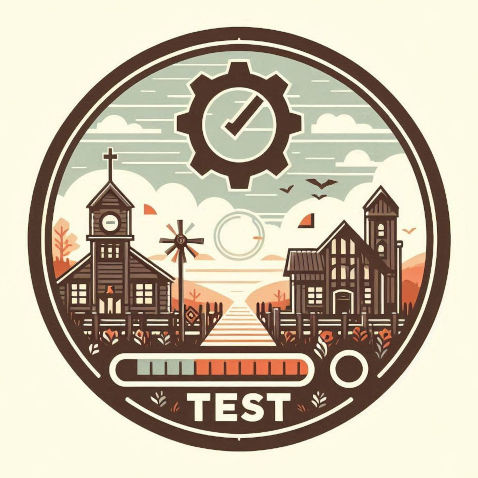
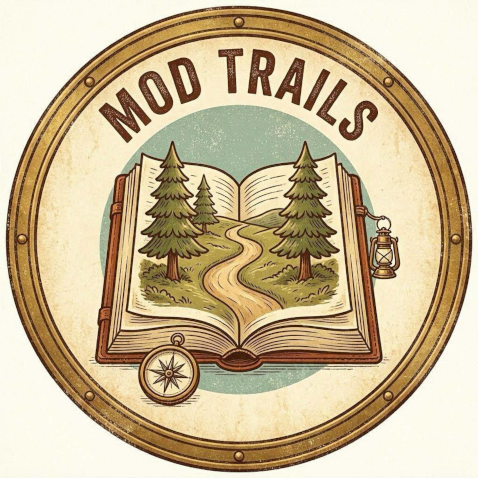
Add AGENTS.md. Small refactor of command architecture.

diff --git a/MaderLand/Commands/TrailsCommands.cs b/MaderLand/Commands/TrailsCommands.cs
@@ -16,25 +16,30 @@ public static class TrailsCommands
     /// </summary>
     /// <param name="api">Core API.</param>
     /// <param name="player">Player that issued command.</param>
+    /// <param name="action">Action (feature-specific) to use.</param>
     /// <param name="parameters">All other parameters.</param>
-    public static TextCommandResult Handle(ICoreServerAPI api, IServerPlayer player, string? parameters)
+    public static TextCommandResult Handle(ICoreServerAPI api, IServerPlayer player, string action, string? parameters)
     {
-        if (parameters == null) return TextCommandResult.Error($"Command 'trail': missing parameters!");
-        if (parameters.StartsWith("active")) return Active(api, player, parameters.Replace("active", "").Trim());
-        if (parameters.StartsWith("check")) return CheckBlock(player);
-        return TextCommandResult.Success();
+        switch (action)
+        {
+            case "active": return Active(api, player, parameters);
+            case "check": return CheckBlock(player);
+            default:
+                return TextCommandResult.Error($"Unknown action '{action}' for feature 'trails'!");
+        }
     }
 
     /// <summary>
-    /// Activates or deactivates Trails feature.
+    /// Action: Activates or deactivates Trails feature.
     /// </summary>
     /// <param name="api">Core API.</param>
     /// <param name="player"></param>
     /// <param name="parameters">All other parameters.</param>
     /// <returns>Result of command.</returns>
-    private static TextCommandResult Active(ICoreServerAPI api, IServerPlayer player, string parameters)
+    private static TextCommandResult Active(ICoreServerAPI api, IServerPlayer player, string? parameters)
     {
-        if (parameters.Equals("")) {
+        if (parameters == null || parameters.Equals(""))
+        {
             // Just flip.
             ConfigService.TrailsConfig.Active = !ConfigService.TrailsConfig.Active;
         } else if (parameters.Equals("on")) {
@@ -53,7 +58,7 @@ public static class TrailsCommands
             }
             ConfigService.TrailsConfig.Active = false;
         }
-        else return TextCommandResult.Error($"Command 'trail active': unknown parameter!");
+        else return TextCommandResult.Error($"Command '/ml trails active': unknown parameter '{parameters}'!");
 
         TrailsConfigHandler.Save(api);
         string message = "Trails feature is turned " + (ConfigService.TrailsConfig.Active ? "on" : "off") + ".";
@@ -62,7 +67,7 @@ public static class TrailsCommands
     }
 
     /// <summary>
-    /// Check code of block player is standing on.
+    /// Action: Check code of block player is standing on.
     /// </summary>
     /// <param name="player">Player that input this command.</param>
     /// <returns>Result of command.</returns>
@@ -74,5 +79,4 @@ public static class TrailsCommands
         player.SendMessage(GlobalConstants.GeneralChatGroup, message, EnumChatType.CommandSuccess);
         return TextCommandResult.Success();
     }
-
 }

diff --git a/MaderLand/Commands/MaderLandCommand.cs b/MaderLand/Commands/MaderLandCommand.cs
@@ -9,7 +9,7 @@ namespace MaderLand.Commands;
 public static class MaderLandCommand
 {
     /// <summary>
-    /// Registers the /ml command. All commands have form of /ml [feature] [all other parameters]
+    /// Registers the /ml command. All commands have form of /ml [feature] [action] [all other parameters, optional]
     /// </summary>
     /// <param name="api">The server API used to register chat commands.</param>
     public static void Register(ICoreServerAPI api)
@@ -20,6 +20,7 @@ public static class MaderLandCommand
             .RequiresPlayer()
             .RequiresPrivilege(Privilege.chat)
             .WithArgs(api.ChatCommands.Parsers.Word("feature"),
+                      api.ChatCommands.Parsers.Word("action"),
                       api.ChatCommands.Parsers.OptionalAll("parameters"))
             .HandleWith(args =>
             {
@@ -27,9 +28,10 @@ public static class MaderLandCommand
                 if (player == null) return TextCommandResult.Error("This command can only be used by a player.");
 
                 string feature = (string)args[0];
-                string? parameters = args[1] as string; // is null if skipped
+                string action = (string)args[1];
+                string? parameters = args[2] as string; // is null if skipped
 
-                return Call(api, player, feature, parameters);
+                return Call(api, player, feature, action, parameters);
             });
     }
 
@@ -39,13 +41,14 @@ public static class MaderLandCommand
     /// <param name="api">Core API.</param>
     /// <param name="player">Player that issued command.</param>
     /// <param name="feature">Feature to use.</param>
+    /// <param name="action">Action (feature-specific) to use.</param>
     /// <param name="parameters">All other parameters.</param>
     /// <returns>Result of command.</returns>
-    private static TextCommandResult Call(ICoreServerAPI api, IServerPlayer player, string feature, string? parameters)
+    private static TextCommandResult Call(ICoreServerAPI api, IServerPlayer player, string feature, string action, string? parameters)
     {
         switch (feature)
         {
-            case "trails": return TrailsCommands.Handle(api, player, parameters);
+            case "trails": return TrailsCommands.Handle(api, player, action, parameters);
             default:
                 return TextCommandResult.Error($"Unknown feature '{feature}'!");
         }

diff --git a/MaderLand/Config/Trails/TrailsConfig.cs b/MaderLand/Config/Trails/TrailsConfig.cs
@@ -13,7 +13,7 @@ public class TrailsConfig
     public bool Active { get; set; } = true;
 
     /// <summary>
-    /// Trampling.
+    /// Trampling data.
     /// </summary>
     public TrailsTrample Trample { get; set; } = new TrailsTrample();
 

diff --git a/AGENTS.md b/AGENTS.md
@@ -1,0 +1,55 @@
+# AGENTS.md — MaderLand Mod by Mader Levap
+
+AI agent context file for the MaderLand Vintage Story mod project.
+
+## Project Overview
+
+**MaderLand** is a "kitchen sink" code mod for Vintage Story (C#, .NET 10). The mod adds various quality-of-life and gameplay features.
+
+GitHub: https://github.com/mader-levap/vs-mod-maderland
+
+## Tech Stack
+
+- Language: C# (.NET 10)
+- Game: Vintage Story 1.22+
+- Build: Cake (via `CakeBuild/` directory)
+
+## Vintage Story
+
+You can check API for mods:
+- API docs: https://apidocs.vintagestory.at/
+- Source code: https://github.com/anegostudios/vsapi
+Use these resources if you are not sure about particulars of API.
+
+## Project Structure
+
+```
+MaderLand/
+├─ Commands/                    # Contains command /ml (short for maderland) and its subcommands for every feature
+├─ Config/                      # Utilities and config definitions for every feature
+├─ MaderLandModSystem.cs        # Main ModSystem entry point
+├─ assets/
+│   └─ maderland/               # JSON assets, lang files
+└─ modinfo.json
+```
+
+## Conventions
+- Namespace root: `MaderLand`
+- XML doc comments (`///`) on all public classes and methods.
+
+### Commands
+- There is main command `/ml` (short for `maderland`). Format: `/ml [feature] [action] [all other parameters, optional]`
+- Each feature has subcommand, for example Trails feature has `/ml trails`.
+- Each feature has one or more actions. Example: `/ml trails check`.
+- All features have at least one action `active` that is used to turn feature on or off. Example: `/ml trails active off`.
+
+### Configuration
+- Code loads/saves/creates configuration via generic `ModConfigHandler` class.
+- `ConfigService` class contains all configurations and handle them.
+- Game-wise, configuration exists in `%AppData%/VintagestoryData/ModConfig/maderland` directory.
+- Mod has main config file `maderland.json`.
+- Every feature has its own json file. One config class per feature.
+
+## Do Not
+
+- Do not hardcode block codes or gameplay values — put them in config.

diff --git a/README.md b/README.md
@@ -1,6 +1,6 @@
 # MaderLand
 
-A Vintage Story personal mod adding various features and tweaks to base game that I like. All features can be activated on individual basis.
+A Vintage Story personal mod that adds various features and tweaks to base game that I like. All features can be activated on individual basis.
 
 ## Features
 
@@ -9,12 +9,12 @@ A Vintage Story personal mod adding various features and tweaks to base game tha
 ## Other changes
 
 - **Aged logs** - Gives you additional two recipes:
-  - You can make vinegar by sealing any wine/cider in barrel for 5 days.
-  - You can make aged logs by sealing any log (except aged) in barrel with vinegar for 14 days. Uses up 2 liters of vinegar per log.
+  - You can make **vinegar** by sealing any wine/cider in barrel for 5 days.
+  - You can make **aged logs** by sealing any log (except aged) in barrel with vinegar for 14 days. Uses up 2 liters of vinegar per log.
 
 ## Requirements
 
-- Vintage Story 1.22.3
+- **Vintage Story** 1.22.3
 
 ## Installation
 